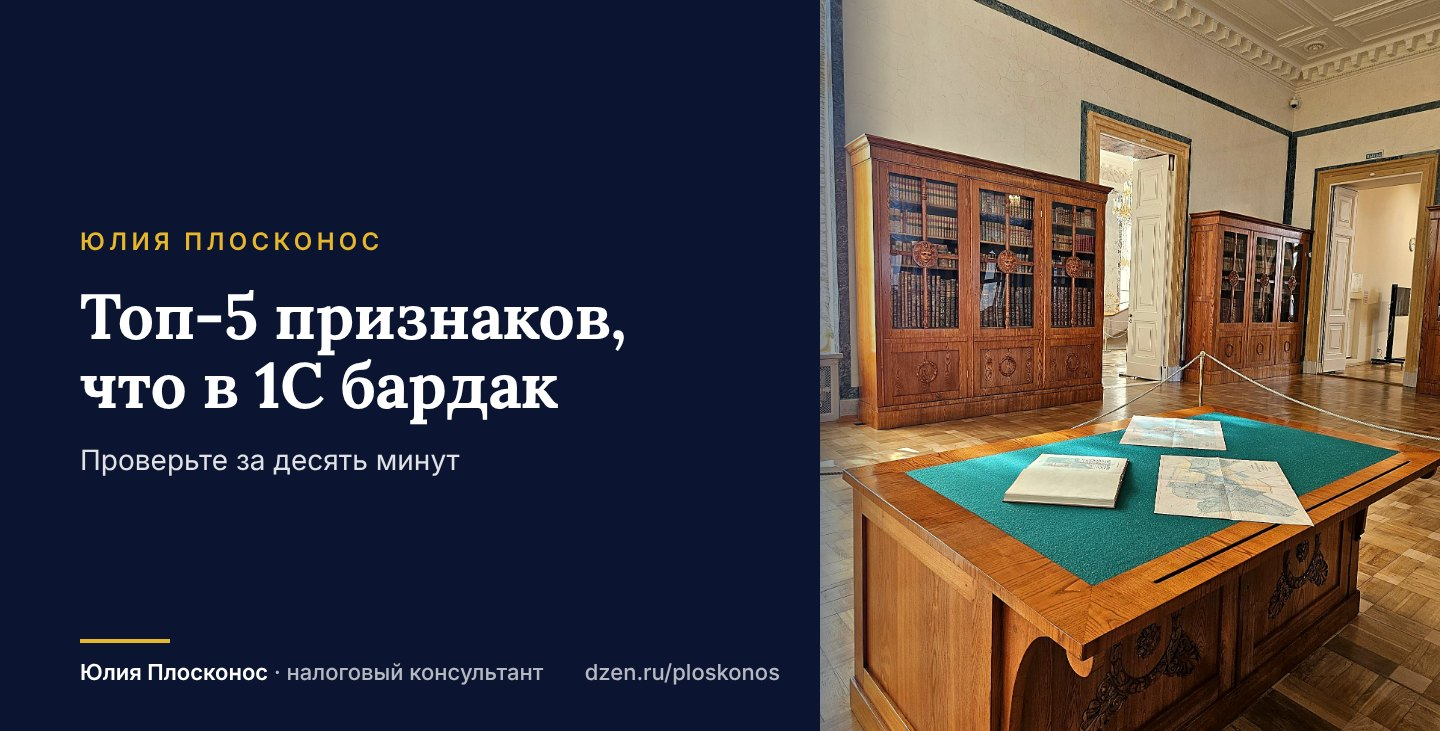
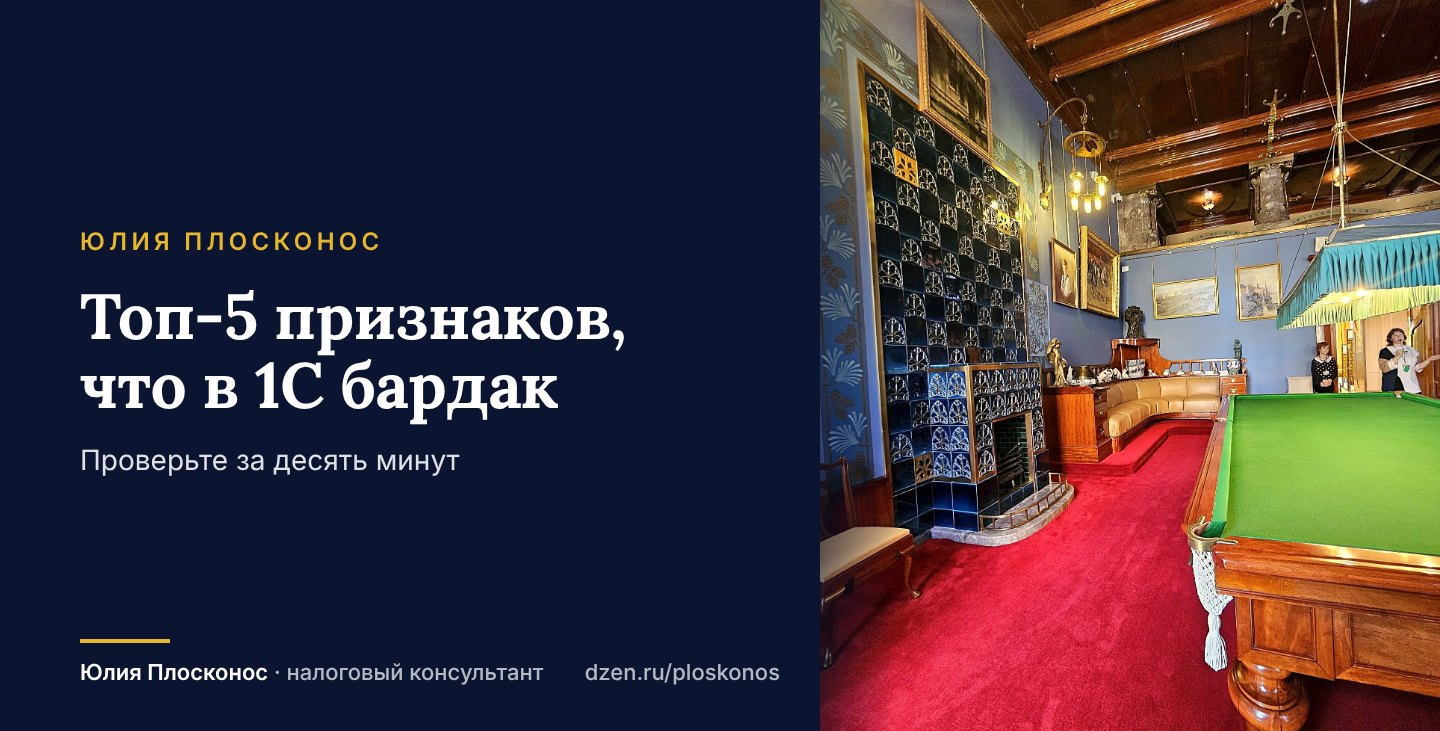
Dzen: уникальные фото на обложках, лог — органический рост, правило фото
Claude-Session: https://claude.ai/code/session_013Qm2mbBWBWRNQADMDb9gwE

diff --git a/content/dzen/FUNCTIONAL-LOG.md b/content/dzen/FUNCTIONAL-LOG.md
@@ -2,6 +2,9 @@
 
 Канал: dzen.ru/ploskonos · «Юлия Плосконос | налоги, 1С и мой робот»
 
+## Задача блога
+Органический рост и раскрутка канала (без платного продвижения).
+
 ## Зачем блог (слова Юлии, 03.11.2026)
 Транслировать:
 - мой образ мысли;
@@ -69,10 +72,41 @@
   Сайт → vpluse.pro
   ```
   (Дзен сокращает видимый текст ссылок до «vk.com/…roo», но они кликабельные; подпись «ВКонтакте →» делает их понятными.)
-- Фото: assets/photos/ (README — где что снято).
+- Фото: assets/photos/ (README — где что снято). Источники: фото, которые присылает Юлия; её VK и Telegram (только брать фото, ссылки на TG в постах не ставить); Google Диск (Юлия докладывает).
+- ФОТО НЕ ПОВТОРЯТЬ: одно фото — не чаще одного раза на 50 постов. Перед обложкой проверять таблицу «Фото → пост» ниже.
 
 ## Журнал
 - 03.11.2026 — Юлия сформулировала цель блога, три идеи, стиль заголовков. Семью можно упоминать без подробностей.
 - 03.11.2026 — Четвёртая идея: «чтобы было что обсудить» — в конце поста вопрос читателю. Новая подпись с контактами — с №16.
 - 03.11.2026 — Заголовки переписаны в цепляющий формат, добавлены топ-5 посты 22–26.
-- 03.11.2026 — Опубликованы: №9, №1, №2, №3, №16. В №9, 1, 2, 3 старая подпись — заменить.
+- 03.11.2026 — Опубликованы: №9, №1, №2, №3, №16. №16, 22, 18 — с новой подписью. В №9, 1, 2, 3 старая подпись — заменить.
+- 03.11.2026 — Правило: фото не повторять (раз в 50 постов). Портретов мало — нужны новые (Диск, VK, TG).
+- 03.11.2026 — Отправлено на аудит GPT: «Аудит 05 — Дзен-блог».
+
+## Фото → пост (для контроля повторов)
+| Пост | Фото |
+|---|---|
+| 1 | Москва-Сити, идёт (walk) |
+| 2 | Москва-Сити, портрет (look) |
+| 3, 16, 22 | портрет в синем пиджаке (founder-hd) — уже повторено трижды, больше не брать до ~70-го поста |
+| 9 | sit |
+| 18 | yulia-pled-kafe |
+| 4 | dvorec-rotonda |
+| 5 | dvorec-zal-lustra |
+| 6 | smile |
+| 7 | park-prud |
+| 8 | relax |
+| 10 | petergof-samson-noch |
+| 11 | dvorec-biblioteka |
+| 12 | opera-selfie |
+| 13 | park-alleya |
+| 14 | armenia-arka-ararat |
+| 15 | petergof-kaskad-noch |
+| 17 | dvorec-bilyard |
+| 19 | armenia-yulia-restoran |
+| 20 | robot-laptop |
+| 21 | polet-den |
+| 23 | dvorec-kolonny |
+| 24 | petergof-dvorec-proekciya-2 |
+| 25 | petergof-oranzhereya |
+| 26 | dvorec-portrety |

diff --git a/content/dzen/published.md b/content/dzen/published.md
@@ -4,3 +4,4 @@
 - 2026-11-03 — №1 «Четыре переезда за месяц» (пост)
 - 2026-11-03 — №2, №3 (посты)
 - 2026-11-03 — №16 (пост, новая подпись)
+- 2026-11-03 — №22, №18 (посты, новая подпись)
